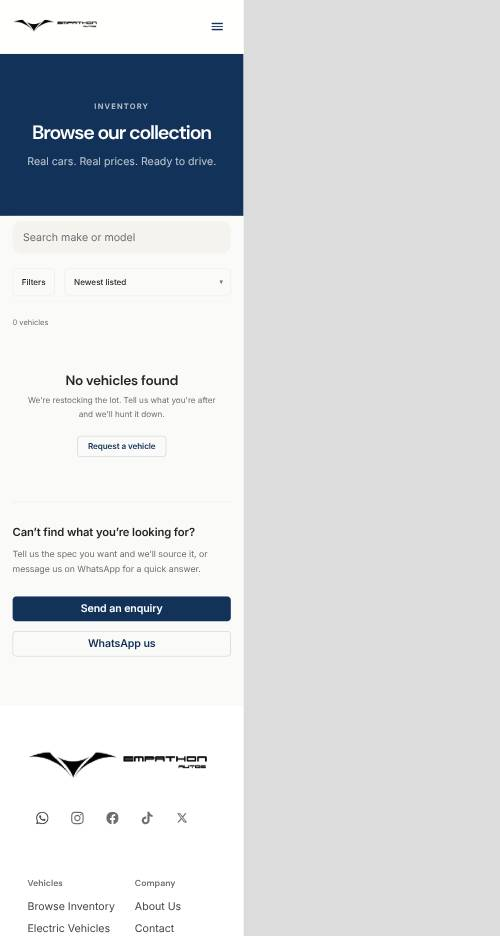
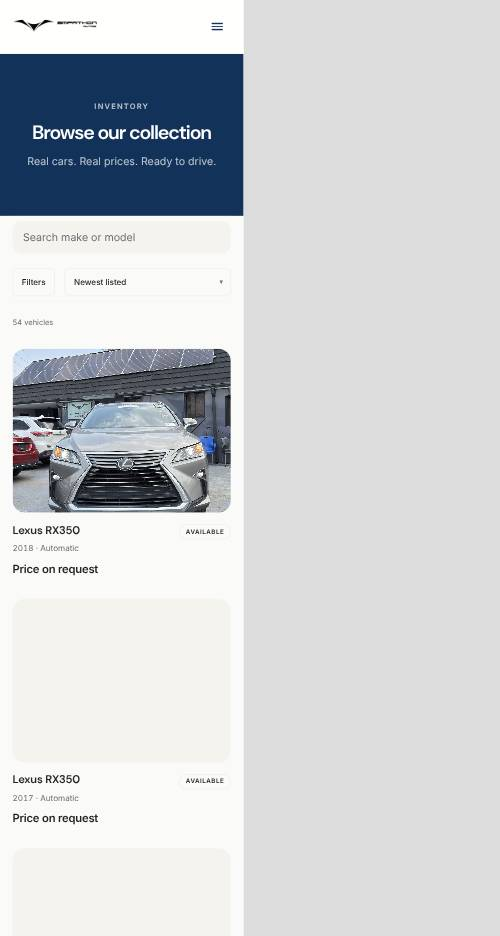
fix(inventory): hide mileage that was never recorded
Stored 0 km means the reading was not supplied, so cards, the detail
spec table, mobile bar and JSON-LD now omit it instead of printing a
false 0 km. Screenshots refreshed against live Supabase data.

diff --git a/src/pages/VehicleDetail.tsx b/src/pages/VehicleDetail.tsx
@@ -3,7 +3,7 @@ import { useParams, Link } from 'react-router-dom'
 import { Helmet } from 'react-helmet-async'
 import { ArrowLeft, ChevronLeft, ChevronRight } from 'lucide-react'
 import { supabase } from '@/lib/supabase'
-import { formatPrice, formatMileage } from '@/lib/format'
+import { formatPrice, formatMileage, mileageLabel } from '@/lib/format'
 import type { Vehicle, VehicleMedia, LeadType } from '@/types'
 import { Badge } from '@/components/ui/Badge'
 import { Button } from '@/components/ui/Button'
@@ -108,14 +108,16 @@ export function VehicleDetail() {
 
   const price = formatPrice(vehicle.price)
   const vehicleAlt = `${vehicle.make} ${vehicle.model}${vehicle.trim ? ` ${vehicle.trim}` : ''} ${vehicle.year}`
-  const specLine = [vehicle.year, formatMileage(vehicle.mileage), titleCase(vehicle.transmission), titleCase(vehicle.fuel_type)]
+  const specLine = [vehicle.year, mileageLabel(vehicle.mileage), titleCase(vehicle.transmission), titleCase(vehicle.fuel_type)]
     .filter(Boolean)
     .join(' · ')
   const whatsappMsg = `Hi, I'm interested in the ${vehicleAlt} at Empathon Autos.`
 
   const DEFAULT_IMG = '/og-image.jpg'
   const vehicleTitle = `${vehicle.make} ${vehicle.model} ${vehicle.trim || ''} ${vehicle.year}`.trim()
-  const vehicleDesc = vehicle.description?.slice(0, 200) || `${vehicleTitle}, ${formatPrice(vehicle.price)}, ${formatMileage(vehicle.mileage)}, ${vehicle.transmission}`
+  const vehicleDesc = vehicle.description?.slice(0, 200) || [vehicleTitle, formatPrice(vehicle.price), mileageLabel(vehicle.mileage), titleCase(vehicle.transmission)]
+    .filter(Boolean)
+    .join(', ')
   const vehicleImg = activeImage?.url || DEFAULT_IMG
 
   const specRows: (SpecRow | null)[] = [
@@ -123,7 +125,7 @@ export function VehicleDetail() {
     { label: 'Model', value: vehicle.model },
     vehicle.trim ? { label: 'Trim', value: vehicle.trim } : null,
     { label: 'Year', value: vehicle.year },
-    { label: 'Mileage', value: formatMileage(vehicle.mileage) },
+    vehicle.mileage > 0 ? { label: 'Mileage', value: formatMileage(vehicle.mileage) } : null,
     { label: 'Transmission', value: titleCase(vehicle.transmission) },
     { label: 'Fuel', value: titleCase(vehicle.fuel_type) },
     { label: 'Body', value: titleCase(vehicle.body_type) },
@@ -145,11 +147,13 @@ export function VehicleDetail() {
     'model': vehicle.model,
     'vehicleConfiguration': vehicle.trim || undefined,
     'modelDate': vehicle.year.toString(),
-    'mileageFromOdometer': {
-      '@type': 'QuantitativeValue',
-      'value': vehicle.mileage,
-      'unitCode': 'KMT',
-    },
+    ...(vehicle.mileage > 0 ? {
+      'mileageFromOdometer': {
+        '@type': 'QuantitativeValue',
+        'value': vehicle.mileage,
+        'unitCode': 'KMT',
+      },
+    } : {}),
     'vehicleTransmission': vehicle.transmission === 'automatic' ? 'Automatic' : vehicle.transmission === 'manual' ? 'Manual' : 'Semi-automatic',
     'fuelType': vehicle.fuel_type.charAt(0).toUpperCase() + vehicle.fuel_type.slice(1).replace('-', ' '),
     'vehicleColor': vehicle.colour || undefined,
@@ -297,7 +301,7 @@ export function VehicleDetail() {
         <div className={styles.mobileBar}>
           <div>
             <p className={styles.mobilePrice}>{price}</p>
-            <p className={styles.mobileMeta}>{vehicle.year} · {formatMileage(vehicle.mileage)}</p>
+            <p className={styles.mobileMeta}>{[vehicle.year, mileageLabel(vehicle.mileage)].filter(Boolean).join(' · ')}</p>
           </div>
           <Button onClick={() => setLeadType('enquiry')}>Enquire</Button>
         </div>

diff --git a/src/components/ui/VehicleCard.tsx b/src/components/ui/VehicleCard.tsx
@@ -1,7 +1,7 @@
 import { useState } from 'react'
 import { Link } from 'react-router-dom'
 import type { Vehicle } from '@/types'
-import { formatPrice, formatMileage } from '@/lib/format'
+import { formatPrice, mileageLabel } from '@/lib/format'
 import { Badge } from './Badge'
 import styles from './VehicleCard.module.css'
 
@@ -36,7 +36,7 @@ interface VehicleCardProps {
 export function VehicleCard({ vehicle }: VehicleCardProps) {
   const [broken, setBroken] = useState(false)
   const img = vehicle.media?.find(m => m.is_primary) ?? vehicle.media?.[0]
-  const spec = [vehicle.year || null, formatMileage(vehicle.mileage), transmissionLabel[vehicle.transmission]]
+  const spec = [vehicle.year || null, mileageLabel(vehicle.mileage), transmissionLabel[vehicle.transmission]]
     .filter(Boolean)
     .join(' · ')
 

diff --git a/src/lib/__tests__/format.test.ts b/src/lib/__tests__/format.test.ts
@@ -1,5 +1,5 @@
 import { describe, it, expect } from 'vitest'
-import { formatPrice, formatMileage } from '../format'
+import { formatPrice, formatMileage, mileageLabel } from '../format'
 
 describe('formatPrice', () => {
   it('returns "Price on request" for zero', () => {
@@ -36,5 +36,15 @@ describe('formatMileage', () => {
 
   it('handles large mileage', () => {
     expect(formatMileage(999999)).toBe('999,999 km')
+  })
+})
+
+describe('mileageLabel', () => {
+  it('returns null when mileage was not recorded', () => {
+    expect(mileageLabel(0)).toBeNull()
+  })
+
+  it('returns the formatted value when mileage is real', () => {
+    expect(mileageLabel(15000)).toBe('15,000 km')
   })
 })

diff --git a/src/lib/format.ts b/src/lib/format.ts
@@ -15,3 +15,12 @@ export function formatPrice(price: number): string {
 export function formatMileage(km: number): string {
   return `${km.toLocaleString()} km`
 }
+
+/**
+ * Mileage for display, or null when it was never recorded.
+ * A stored 0 means "not supplied" on this lot, so it is left out rather than
+ * printed as a real reading.
+ */
+export function mileageLabel(km: number): string | null {
+  return km > 0 ? formatMileage(km) : null
+}
